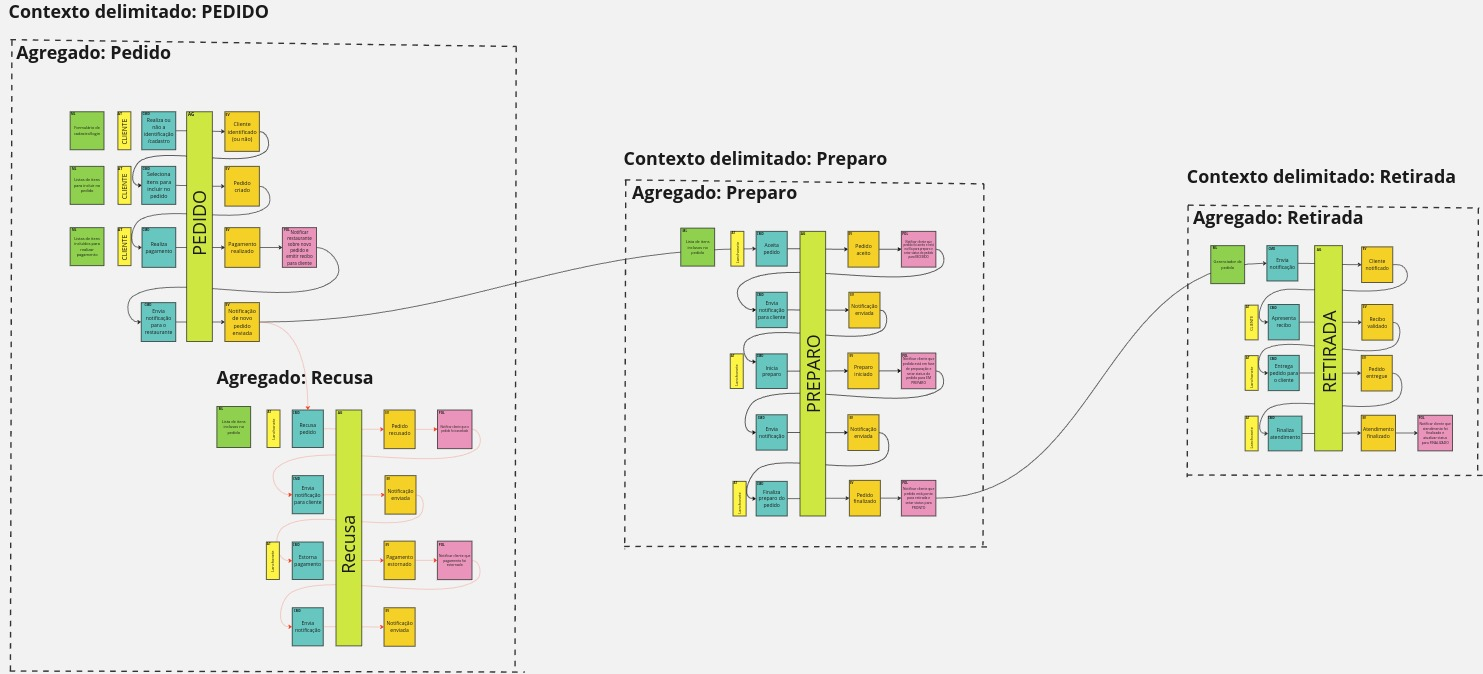
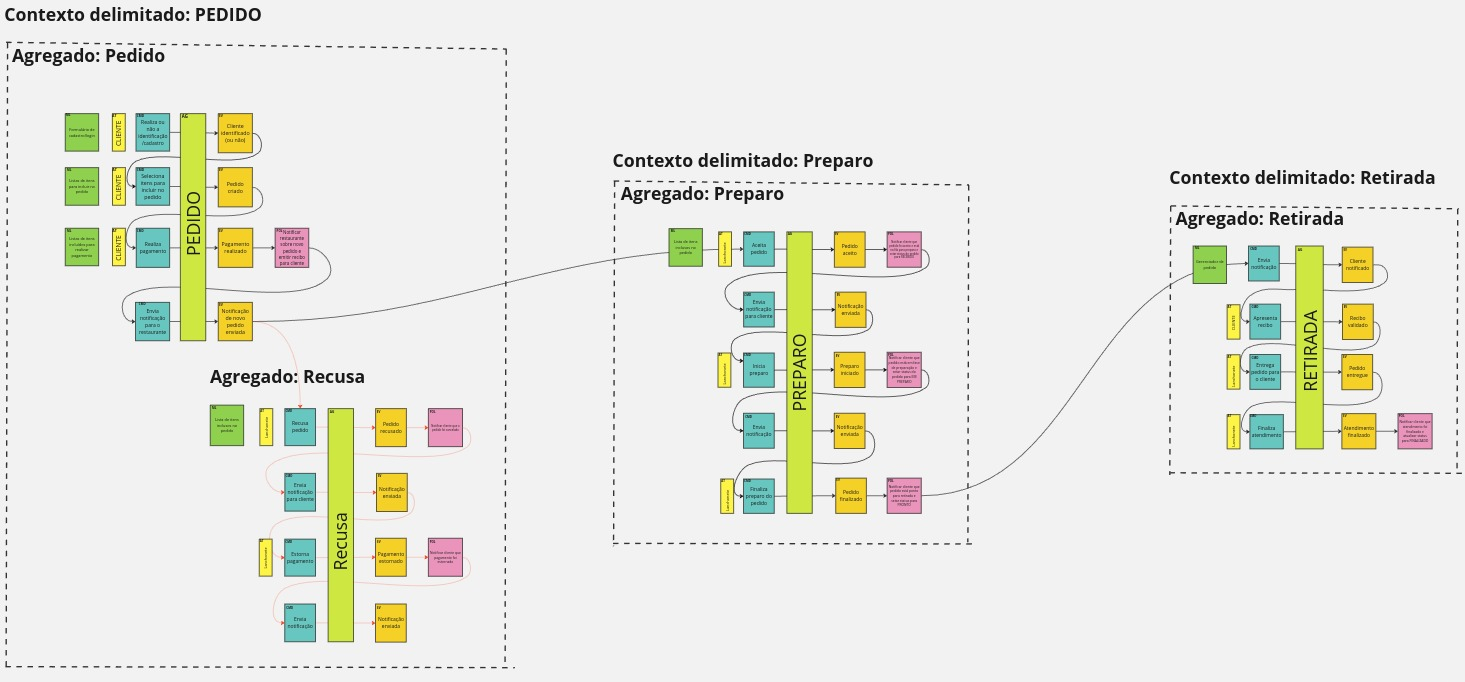
readme atualizado

diff --git a/README.md b/README.md
@@ -57,46 +57,89 @@ A implementação deste sistema visa resolver problemas comuns em lanchonetes em
   - Gerenciamento das informações do sistema de pedidos.
 
 ### Diagramas
+##### Domain Storytelling
 
-> TODO: Adicionar diagramas de Domain Storytelling e URL/Export do Miro (Event Storming).
+![Diagrama 1 - Cadastro de cliente](https://raw.githubusercontent.com/GabrielUmbelino/fiap-pos-tech-challenge/refs/heads/main/docs/Fase%201/Domain%20Storytelling/01%20-%20Cadastro%20cliente_2024-09-14.png)
 
-### Dicionário
+![Diagrama 2 - Pedido](https://raw.githubusercontent.com/GabrielUmbelino/fiap-pos-tech-challenge/refs/heads/main/docs/Fase%201/Domain%20Storytelling/02%20-%20Pedido_2024-09-26.png)
 
-> TODO: Realizar o *port* do dicionário.
+![Diagrama 3 - Pagamento](https://raw.githubusercontent.com/GabrielUmbelino/fiap-pos-tech-challenge/refs/heads/main/docs/Fase%201/Domain%20Storytelling/03%20-%20Pagamento_2024-09-25.png)
+
+![Diagrama 4 - Acompanhamento do Pedido](https://raw.githubusercontent.com/GabrielUmbelino/fiap-pos-tech-challenge/refs/heads/main/docs/Fase%201/Domain%20Storytelling/04%20-%20Acompanhamento%20de%20pedido_2024-09-25.png)
+
+![Diagrama 5 - Acompanhamento (cozinha)](https://raw.githubusercontent.com/GabrielUmbelino/fiap-pos-tech-challenge/refs/heads/main/docs/Fase%201/Domain%20Storytelling/05%20-%20Acompanhamento%20%28cozinha%29_2024-09-25.png)
+
+![Diagrama 6 - Entrega](https://raw.githubusercontent.com/GabrielUmbelino/fiap-pos-tech-challenge/refs/heads/main/docs/Fase%201/Domain%20Storytelling/06%20-%20Entrega_2024-09-25.png)
+
+
+![Diagrama 7 - Gerenciar produtos e categorias](https://raw.githubusercontent.com/GabrielUmbelino/fiap-pos-tech-challenge/refs/heads/main/docs/Fase%201/Domain%20Storytelling/07%20-%20Gerenciar%20produtos%20e%20categorias_2024-09-15.png)
+
+
+##### Event Storming (Miro)
+![Diagrama 1](https://raw.githubusercontent.com/GabrielUmbelino/fiap-pos-tech-challenge/refs/heads/main/docs/Fase%201/Event%20Storming/Event%20Storming%20P%C3%93S%20TECH%20FIAP%20%282%29.jpg)
+[Veja esse diagrama no Miro](https://miro.com/app/board/uXjVKiHE9p8=/?moveToViewport=-273,173,5636,1057&embedId=817689355251)
+
+![Diagrama 2](https://raw.githubusercontent.com/GabrielUmbelino/fiap-pos-tech-challenge/refs/heads/main/docs/Fase%201/Event%20Storming/Event%20Storming%20P%C3%93S%20TECH%20FIAP.jpg)
+[Veja esse diagrama no Miro](https://miro.com/app/live-embed/uXjVKiHE9p8=/?moveToViewport=-645,2257,5324,2449&embedId=118695308647)
+
+![Diagrama 3](https://raw.githubusercontent.com/GabrielUmbelino/fiap-pos-tech-challenge/refs/heads/main/docs/Fase%201/Event%20Storming/Event%20Storming%20P%C3%93S%20TECH%20FIAP%20%283%29.jpg)
+[Veja esse diagrama no Miro](https://miro.com/app/live-embed/uXjVKiHE9p8=/?moveToViewport=5518,2442,1255,1365&embedId=549875798417)
+
+
+### Dicionário de linguagem Ubíqua
+
+ - Cliente: É a entidade responsável por realizar pedidos na lanchonete.
+
+ - Sistema: Programa de computador onde clientes e funcionários interagem para gerenciar pedidos, produtos, clientes e pagamentos.
+
+ - Lanchonete: Entidade responsável por interagir com o cliente e o sistema capaz de criar pedidos e gerenciar clientes.
+
+ - Produto: Item produzido pela lanchonete podendo pertencer a uma das seguintes categorias: lanche, bebida, acompanhamento, sobremesa.
+
+ - Cozinha: Entidade responsável por receber pedidos e atualizar o status dos mesmos no sistema de cozinha.
+
+ - Pedido: Conjunto de produtos selecionados pelo cliente e que será produzido pela cozinha da lanchonete.
+
+ - Mercado Pago: Entidade responsável por processar os pagamentos do sistema da lanchonete.
+
+ - Cozinheiro: pessoa responsável por produzir os pedidos recebidos pelo restaurante.
+
+ - Sistema Cozinha: Parte do sistema utilizado para gerenciar pedidos, acessível somente pelos funcionários da cozinha.
+
+ - Comprovante de compra: Recibo gerado pelo sistema após a confirmação do pagamento no mercado pago.
+
+ - Lista de produtos: Tela no sistema onde a lanchonete pode visualizar os produtos cadastrados.
 
 ### Tech Stack
 
-- Node.js v??
-- TypeScript
-- DB
-- ...
+- Node.js 20
+- Alpine 3.17.3
+- TypeScript 5.1.3
+- NestJS
+- PostgreSQL 17
 - Docker
 
 ### Estrutura do projeto
 
-> TODO: Adicionar a estrutura do projeto
+> TODO: Adicionar a estrutura do projeto (basicamente, a última coisa que irei adicionar, ele é baseado nas pastas e arquivos do projeto)
 
 ## Instalação do projeto
 
 Este projeto deve ser executado em um ambiente Docker, dispensando qualquer instalação adicional.
 Se você não possui o Docker instalado, siga as instruções para seu sistema operacional na [documentação oficial do Docker](https://docs.docker.com/get-docker).
 
-> TODO: Adicionar instruções Docker
+> TODO: Adicionar instruções Docker (WIP)
 
 
 ## Desenvolvimento
 
 Deseja abrir o código na IDE? Segue o fio.
 
-> TODO: Adicionar instruções de execução/desenvolvimento
+> TODO: Adicionar instruções de execução/desenvolvimento (WIP)
 
 ## Execução via Postman
 
 Se você já fez um dos passos anteriores ([Instalação do projeto](#instalação-do-projeto) ou [Desenvolvimento](#desenvolvimento)), você pode importar a coleção em JSON do Postman com todos endpoints já configurados e realizar os testes diretamente na API.
 Se você não possui o Postman instalado, siga as instruções para seu sistema operacional na [documentação oficial Postman](https://learning.postman.com/docs/getting-started/installation/installation-and-updates/).
 
-> TODO: Adicionar coleção Postman e adicionar o link a esta seção.
-
-## Endpoints
-
-> TODO: Documentar cada endpoint separadamente, com a URL, método HTTP e os corpos request e response.
+> TODO: Adicionar coleção Postman e adicionar o link a esta seção. (WIP, disponibilizar o JSON da OpenAPI/Swagger, que já é uma documentação dos endpoints)
